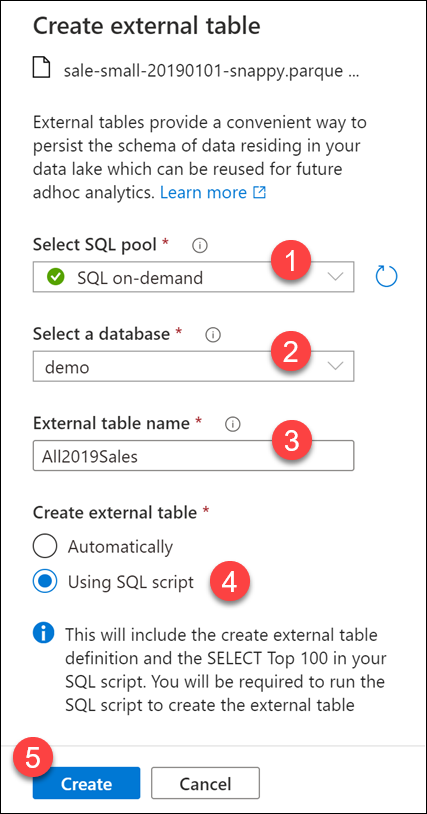
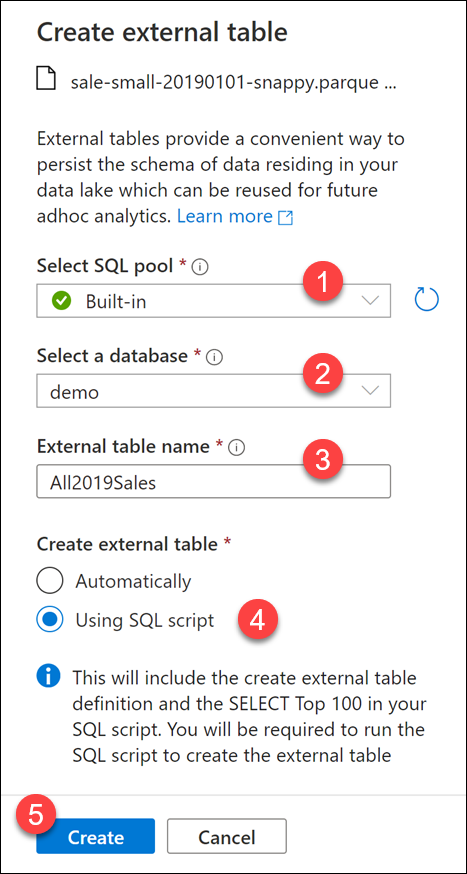
Updated Module 5

diff --git a/demos/module5/README.md b/demos/module5/README.md
@@ -2,14 +2,14 @@
 
 In this demo, we show how Azure Synapse enables you to use serverless SQL pool to query data stored in the data lake, as well as an external data source. We also cover security and how to control access to the files through RBAC and ACLs applied to the ADLS Gen2 data store. The following table of contents describes and links to the elements of the demo:
 
-- [Run interactive queries using serverless SQL pools with Azure Synapse](#run-interactive-queries-using-azure-synapse-sql-serverless)
+- [Run interactive queries using serverless SQL pool with Azure Synapse Analytics](#run-interactive-queries-using-serverless-sql-pool-with-azure-synapse-analytics)
   - [Demo prerequisites](#demo-prerequisites)
-  - [Querying a Data Lake Store using serverless SQL pools in Azure Synapse Analytics](#querying-a-data-lake-store-using-sql-serverless-in-azure-synapse-analytics)
-    - [Query sales Parquet data with serverless SQL pools](#query-sales-parquet-data-with-synapse-sql-serverless)
+  - [Querying a Data Lake Store using serverless SQL pools in Azure Synapse Analytics](#querying-a-data-lake-store-using-serverless-sql-pools-in-azure-synapse-analytics)
+    - [Query sales Parquet data with serverless SQL pools](#query-sales-parquet-data-with-serverless-sql-pools)
     - [Create an external table for 2019 sales data](#create-an-external-table-for-2019-sales-data)
     - [Create an external table for CSV files](#create-an-external-table-for-csv-files)
-    - [Create a view using a serverless SQL pool](#create-a-sql-serverless-view)
-  - [Securing access to data through using SQL Serverless in Azure Synapse Analytics](#securing-access-to-data-through-using-sql-serverless-in-azure-synapse-analytics)
+    - [Create a view with a serverless SQL pool](#create-a-view-with-a-serverless-sql-pool)
+  - [Securing access to data through using a serverless SQL pool in Azure Synapse Analytics](#securing-access-to-data-through-using-a-serverless-sql-pool-in-azure-synapse-analytics)
     - [Create Azure Active Directory security groups](#create-azure-active-directory-security-groups)
     - [Add group members](#add-group-members)
     - [Configure data lake security - Role-Based Access Control (RBAC)](#configure-data-lake-security---role-based-access-control-rbac)
@@ -46,7 +46,7 @@ When you query Parquet files using serverless SQL pools, you can explore the dat
 
 3. Ensure **Built-in** is selected **(1)** in the `Connect to` dropdown list above the query window, then run the query **(2)**. Data is loaded by the serverless SQL endpoint and processed as if was coming from any regular relational database.
 
-    ![The Built-in connection is highlighted.](media/sql-on-demand-selected.png "SQL Built-in")
+    ![The Built-in connection is highlighted.](media/built-in-selected.png "SQL Built-in")
 
     The cell output shows the query results from the Parquet file.
 
@@ -103,7 +103,7 @@ Rather than creating a script with `OPENROWSET` and a path to the root 2019 fold
 
     > **Note to presenter**: Make sure the script is connected to the serverless SQL pool (`Built-in`) **(1)** and the database is set to `demo` **(2)**.
 
-    ![The Built-in pool and demo database are selected.](media/on-demand-and-demo.png "Script toolbar")
+    ![The Built-in pool and demo database are selected.](media/built-in-and-demo.png "Script toolbar")
 
     The generated script contains the following components:
 
@@ -278,7 +278,7 @@ Let's create a view to wrap a SQL query. Views allow you to reuse queries and ar
 
     ![The run button is highlighted.](media/sql-run.png "Run")
 
-    We just created the view to wrap the SQL query that selects data from the CSV file and selected from the view:
+    We just created the view to wrap the SQL query that selects data from the CSV file, then selected rows from the view:
 
     ![The query results are displayed.](media/create-view-script-results.png "Query results")
 
@@ -475,7 +475,7 @@ To test out the permissions, we will add our own account to the `tailwind-reader
 
 3. Ensure **Built-in** is selected **(1)** in the `Connect to` dropdown list above the query window, then run the query **(2)**. Data is loaded by the serverless SQL pool endpoint and processed as if was coming from any regular relational database.
 
-    ![The Built-in connection is highlighted.](media/sql-on-demand-selected.png "Built-in SQL pool")
+    ![The Built-in connection is highlighted.](media/built-in-selected.png "Built-in SQL pool")
 
     The cell output shows the query results from the Parquet file.
 
@@ -487,19 +487,19 @@ To test out the permissions, we will add our own account to the `tailwind-reader
 
     Let's give it a try.
 
-4. In the **Data** hub, once again select the **Linked** tab **(1)** and expand **Azure Data Lake Storage Gen2**. Expand the `asaworkspaceXX` primary ADLS Gen2 account **(2)** and select the **`wwi-02`** container **(3)**. Navigate to the `sale-small/Year=2016/Quarter=Q4/Month=12/Day=20161231` folder **(4)**. Right-click on the `sale-small-20161231-snappy.parquet` file **(5)**, but this time select **New Notebook (6)**.
+4. In the **Data** hub, once again select the **Linked** tab **(1)** and expand **Azure Data Lake Storage Gen2**. Expand the `asaworkspaceXX` primary ADLS Gen2 account **(2)** and select the **`wwi-02`** container **(3)**. Navigate to the `sale-small/Year=2016/Quarter=Q4/Month=12/Day=20161231` folder **(4)**. Right-click on the `sale-small-20161231-snappy.parquet` file **(5)**, select **New Notebook (6)**, then select **Load to DataFrame (7)**.
 
     ![The Data hub is displayed with the options highlighted.](media/data-hub-parquet-new-notebook.png "New notebook")
 
 5. In the notebook, select **{} Add code** underneath Cell 1 **(1)**. Enter the following in the new cell, then **copy the Parquet path from cell 1** and paste the value to replace `REPLACE_WITH_PATH` **(2)**. Rename the Parquet file by adding `-test` to the end of the file name **(3)**:
 
     ```python
-    data_path.write.parquet('REPLACE_WITH_PATH')
+    df.write.parquet('REPLACE_WITH_PATH')
     ```
 
     ![The notebook is displayed with the new cell.](media/new-cell.png "New cell")
 
-6. Select **Run all** in the tool bar to run both cells. After a few minutes when the Spark pool starts and the cells run, you should see the file data in the output from cell 1 **(1)**. However, you should see a **403 error** in the output of cell 2 **(2)**.
+6. Select **Run all** in the toolbar to run both cells. After a few minutes when the Spark pool starts and the cells run, you should see the file data in the output from cell 1 **(1)**. However, you should see a **403 error** in the output of cell 2 **(2)**.
 
     ![The error is displayed in Cell 2's output.](media/notebook-error.png "Notebook error")
 
